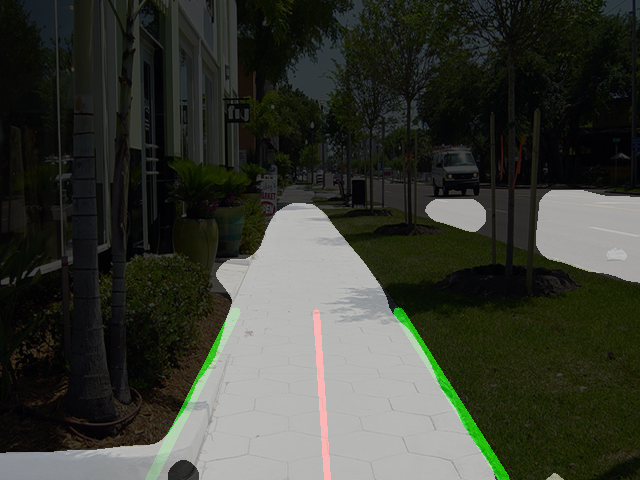
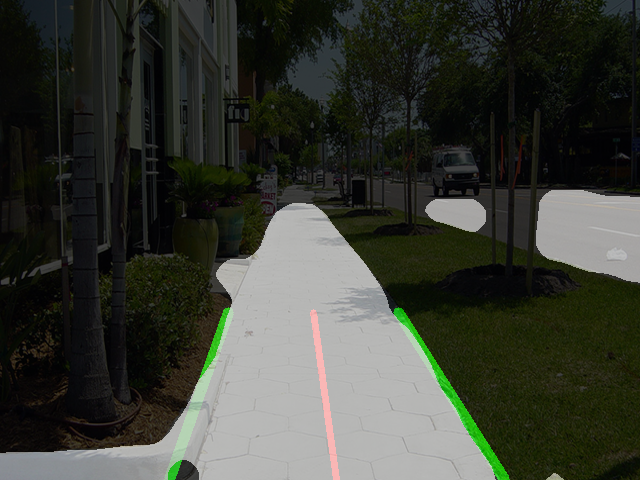
attempt at implementing curved waypoints

diff --git a/calc_steering_angle.py b/calc_steering_angle.py
@@ -6,20 +6,21 @@ import math
 from PIL import Image
 
 _SHOW_IMAGE = True
+_CURVES = True
+_REDUCED_ROI = False
 
 '''
 Hough Line Function Parameters
 '''
-rho = 2                  # Resolution of accumulator buckets in pixels, Larger -> more lines
+rho = 5                  # Resolution of accumulator buckets in pixels, Larger -> more lines
 angle = 1                # Angle resolution of the accumulator in degrees, converted to radians. Larger -> fewer lines found
-min_threshold = 15       # minimal of votes to determine line exists. Larger -> fewer lines
-minLineLength = 15       # minimum length of segment to be considered a line. In pixels
-maxLineGap = 40          # maximum distance between 2 segments to be considered a continuous line
+min_threshold = 5       # minimal of votes to determine line exists. Larger -> fewer lines
+minLineLength = 1       # minimum length of segment to be considered a line. In pixels
+maxLineGap = 20          # maximum distance between 2 segments to be considered a continuous line
 
 class HandCodedLaneFollower(object):
 
     def __init__(self, car=None, img_name=None):
-        logging.info('Creating a HandCodedLaneFollower...')
         self.car = car
         self.curr_steering_angle = 90
         self.img_name = img_name
@@ -38,9 +39,7 @@ class HandCodedLaneFollower(object):
         return final_frame
 
     def steer(self, frame, lane_lines):
-        logging.debug('steering...')
         if len(lane_lines) == 0:
-            logging.error('No lane lines detected, nothing to do.')
             return frame
 
         new_steering_angle, curr_heading_image = compute_steering_angle(frame, lane_lines)
@@ -92,8 +91,11 @@ def region_of_interest(img):
 
     left_bottom = [0, height - 1]
     right_bottom = [width - 1, height - 1]
-    left_up = [scale_w * width, scale_h * height]
-    right_up = [(1 - scale_w) * width, scale_h * height]
+    left_up = [0, 0]
+    right_up = [width - 1, 0]
+    if (_REDUCED_ROI):
+        left_up = [scale_w * width, scale_h * height] # for reduced ROI
+        right_up = [(1 - scale_w) * width, scale_h * height] # for reduced ROI
     vertices = np.array([[left_bottom, left_up, right_up, right_bottom]], dtype=np.int32)
 
     # defining a 3 channel or 1 channel color to fill the mask with depending on the input image
@@ -119,7 +121,9 @@ def detect_line_segments(cropped_edges):
 
 def average_slope_intercept(frame, line_segments):
     """
-    This function combines line segments into one or two lane lines
+    If _CURVES is true, this function returns the line segments as is
+
+    else if _CURVES is false, this function combines line segments into one or two lane lines
     If all line slopes are < 0: then we only have detected left lane
     If all line slopes are > 0: then we only have detected right lane
     """
@@ -127,6 +131,9 @@ def average_slope_intercept(frame, line_segments):
     if line_segments is None:
         print("No lane lines found")
         return lane_lines
+    
+    if (_CURVES):
+        return line_segments
 
     height, width, _ = frame.shape
     left_fit = []
@@ -165,12 +172,39 @@ def average_slope_intercept(frame, line_segments):
 
     return lane_lines
 
+
 def compute_steering_angle(frame, lane_lines):
-    """ Find the steering angle based on lane line coordinate
-        We assume that camera is calibrated to point to dead center
+    """ 
+    If _CURVES is true, this function displays a set of waypoints and returns an array of steering angles for each waypoint
+    else if _CURVES is false, this function returns the steering angle based on the lane lines
     """
     if len(lane_lines) == 0:
-        return -90
+        return 90
+
+    if (_CURVES):
+        steering_angles = []
+        img_with_lines = np.zeros_like(frame)
+        for lane_line in lane_lines:
+            for x1, y1, x2, y2 in lane_line:
+                x_mid = int((x1 + x2) / 2)
+                y_mid = int((y1 + y2) / 2)
+                y_diff = y2 - y1
+                x_diff = x2 - x1
+                if (x_diff == 0 or y_diff == 0):
+                    continue # skip vertical or horizontal lines
+
+                slope = -(x_diff / y_diff) # slope of normal line passing through the center of the line segment
+                intercept = y_mid - slope * x_mid
+                x_arb = x_mid + 20
+                y_arb = int(slope * x_arb + intercept)
+                mid_line = np.zeros_like(frame)
+                cv2.line(mid_line, (x_mid, y_mid), (x_arb, y_arb), (100, 255, 0), 5)
+                
+                steering_angle = math.degrees(math.atan(slope))
+                steering_angles.append(steering_angle)
+                img_with_lines = cv2.addWeighted(img_with_lines, 0.7, mid_line, 1, 1)
+        print(steering_angles)
+        return steering_angles, img_with_lines
 
     if len(lane_lines) == 1:
         mid_start_x, mid_start_y, mid_end_x, mid_end_y = lane_lines[0][0]
@@ -186,10 +220,15 @@ def compute_steering_angle(frame, lane_lines):
         mid_end_y = int((left_y2 + right_y2) / 2)
 
     # Find slope of line connecting 2 points
-    slope = (mid_end_y - mid_start_y) / (mid_end_x - mid_start_x) 
+    y_diff = mid_end_y - mid_start_y
+    x_diff = mid_end_x - mid_start_x
+    if x_diff == 0:
+        steering_angle = 90
+    else:
+        slope = y_diff / x_diff
 
-    # Find angle from slope
-    steering_angle = (math.atan(slope) * 180 / math.pi)
+        # Find angle from slope
+        steering_angle = math.degrees(math.atan(slope))
 
     heading_line_img = display_heading_line(frame, (mid_start_x, mid_start_y), (mid_end_x, mid_end_y))
     print("Pre-stabilized steering angle: ", steering_angle)
@@ -240,11 +279,11 @@ def show_image(title, frame, show=_SHOW_IMAGE):
         cv2.imshow(title, frame)
         cv2.waitKey()
 
+# Given a slope and intercept, output start and end coordinates of a line
 pre_l_slopes = []
 pre_l_inters = []  
 pre_r_slopes = []
 pre_r_inters = []
-
 def make_points(slope, inter, side, height):
     number_buffer_frames = 3
     scale_y = 0.65

diff --git a/main.py b/main.py
@@ -86,7 +86,6 @@ def main():
     utils.set_bn_momentum(model.backbone, momentum=0.01)
     
     if opts.ckpt is not None and os.path.isfile(opts.ckpt):
-        # https://github.com/VainF/DeepLabV3Plus-Pytorch/issues/8#issuecomment-605601402, @PytaichukBohdan
         checkpoint = torch.load(opts.ckpt, map_location=torch.device('cpu'))
         model.load_state_dict(checkpoint["model_state"])
         model = nn.DataParallel(model)
